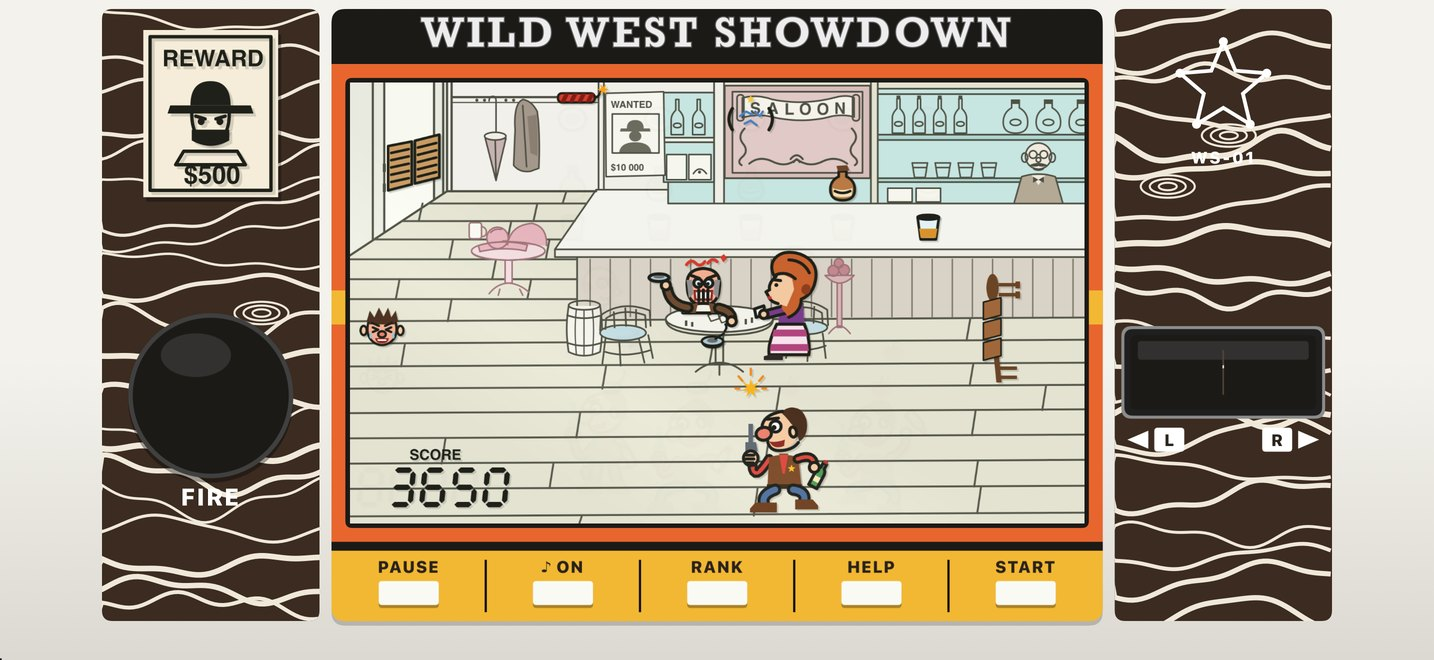
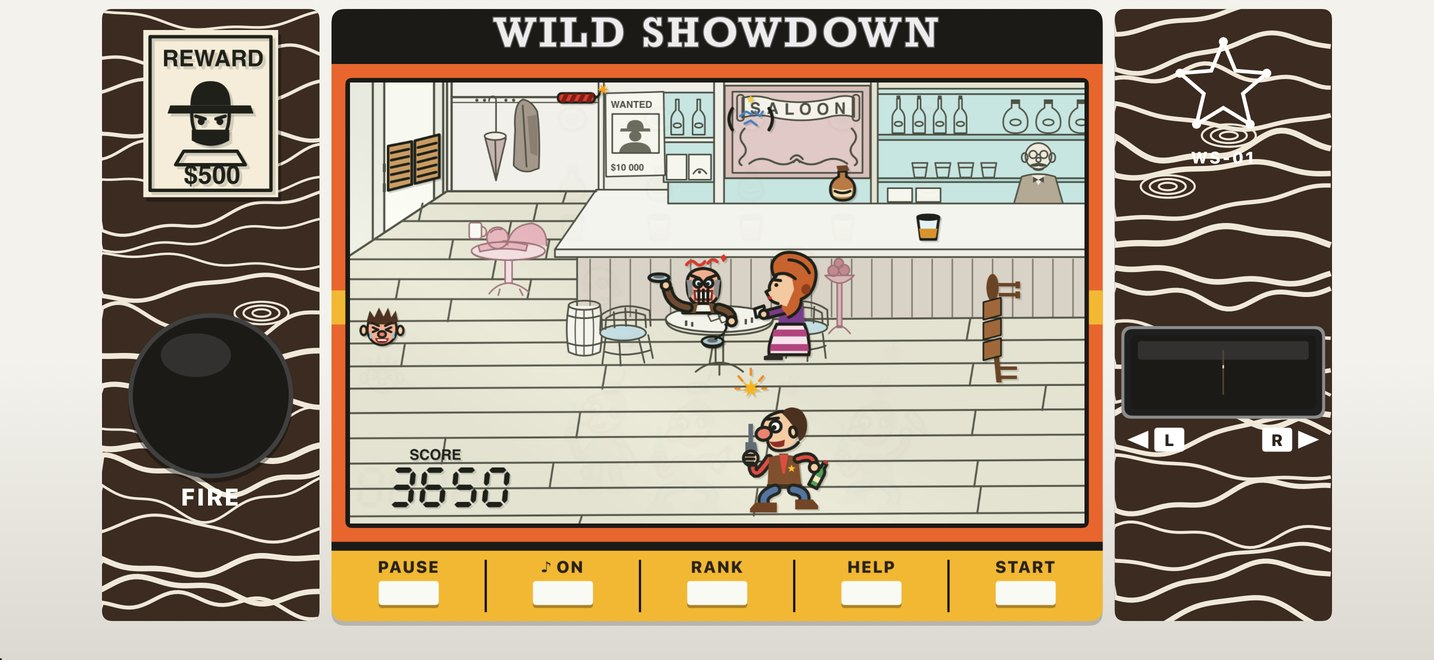
wildwest: rename English title to Wild Showdown
"Wild West Showdown" is taken on the App Store, so the English name is
now Wild Showdown. Screenshots retaken with the new title on the body.

Changed region(s): [[0.2762, 0.0, 0.7057, 0.0909]]

diff --git a/wildwest/en/index.html b/wildwest/en/index.html
@@ -3,9 +3,9 @@
 <head>
   <meta charset="utf-8">
   <meta name="viewport" content="width=device-width,initial-scale=1">
-  <title>Wild West Showdown｜Saloon shoot-out for iPhone</title>
-  <meta name="description" content="Wild West Showdown is a saloon shoot-out for iPhone in the style of 1980s LCD handheld games: smash the bartender's plates and bottles, dodge apples, douse dynamite with whiskey, then face the desperado. Free, no ads, no in-app purchases.">
-  <link rel="stylesheet" href="../style.css?v=20261013">
+  <title>Wild Showdown｜Saloon shoot-out for iPhone</title>
+  <meta name="description" content="Wild Showdown is a saloon shoot-out for iPhone in the style of 1980s LCD handheld games: smash the bartender's plates and bottles, dodge apples, douse dynamite with whiskey, then face the desperado. Free, no ads, no in-app purchases.">
+  <link rel="stylesheet" href="../style.css?v=20261013b">
   <link rel="stylesheet" href="../../assets/related-apps.css?v=20261008">
   <link rel="alternate" hreflang="zh-Hant" href="https://getesimmanager.com/wildwest/">
   <link rel="alternate" hreflang="en" href="https://getesimmanager.com/wildwest/en/">
@@ -13,8 +13,8 @@
 <body>
   <header>
     <a class="brand" href="./">
-      <img src="../../assets/wildwest-icon.png?v=20261013" alt="" width="40" height="40">
-      <span>Wild West Showdown</span>
+      <img src="../../assets/wildwest-icon.png?v=20261013b" alt="" width="40" height="40">
+      <span>Wild Showdown</span>
     </a>
     <nav aria-label="Site navigation">
       <a href="support.html">Support</a>
@@ -26,12 +26,12 @@
   <main>
     <section class="hero">
       <div>
-        <img class="app-icon" src="../../assets/wildwest-icon.png?v=20261013" alt="Wild West Showdown icon" width="104" height="104">
+        <img class="app-icon" src="../../assets/wildwest-icon.png?v=20261013b" alt="Wild Showdown icon" width="104" height="104">
         <span class="pill">iPhone app · Free, no ads, no in-app purchases</span>
         <h1>A tipsy sheriff. One saloon. Hold the line.</h1>
-        <p class="lead">Wild West Showdown is a saloon shoot-out in the style of 1980s LCD handheld games. Step left and right and fire straight up to smash the plates, bottles and glasses the bartender throws. Dodge the apples and ashtrays from grumpy customers, pour whiskey on the dynamite at your feet — and when the swinging doors creak, face the desperado.</p>
+        <p class="lead">Wild Showdown is a saloon shoot-out in the style of 1980s LCD handheld games. Step left and right and fire straight up to smash the plates, bottles and glasses the bartender throws. Dodge the apples and ashtrays from grumpy customers, pour whiskey on the dynamite at your feet — and when the swinging doors creak, face the desperado.</p>
         <div class="actions">
-          <a class="app-store-badge" href="https://apps.apple.com/app/id6822051900" target="_blank" rel="noopener noreferrer" aria-label="Download Wild West Showdown on the App Store">
+          <a class="app-store-badge" href="https://apps.apple.com/app/id6822051900" target="_blank" rel="noopener noreferrer" aria-label="Download Wild Showdown on the App Store">
             <svg viewBox="0 0 24 24" aria-hidden="true"><path d="M18.71 19.5c-.83 1.24-1.71 2.45-3.05 2.47-1.34.03-1.77-.79-3.29-.79-1.53 0-2 .77-3.27.82-1.31.05-2.3-1.32-3.14-2.53C4.25 17 2.94 12.45 4.7 9.39c.87-1.52 2.43-2.48 4.12-2.51 1.28-.02 2.5.87 3.29.87.78 0 2.26-1.07 3.81-.91.65.03 2.47.26 3.64 1.98-.09.06-2.17 1.28-2.15 3.81.03 3.02 2.65 4.03 2.68 4.04-.03.07-.42 1.44-1.38 2.83M15.97 6.37c.61-.75 1.04-1.8 0.92-2.87-.92.04-2.02.62-2.67 1.37-.58.66-1.09 1.74-.96 2.78 1.03.08 2.08-.54 2.71-1.28z"/></svg>
             <span><small>Download on the</small><strong>App Store</strong></span>
           </a>
@@ -41,32 +41,32 @@
       </div>
     </section>
 
-    <section class="gallery" aria-label="Wild West Showdown screenshots">
+    <section class="gallery" aria-label="Wild Showdown screenshots">
       <p class="eyebrow">Screenshots</p>
       <h2>That segment-by-segment LCD feel</h2>
       <div class="gallery-grid">
         <figure>
-          <img src="../../assets/wildwest-shoot.jpg" alt="The sheriff fires straight up and smashes a plate, a bottle and a glass in one column" width="1434" height="660" loading="lazy">
+          <img src="../../assets/wildwest-shoot.jpg?v=2" alt="The sheriff fires straight up and smashes a plate, a bottle and a glass in one column" width="1434" height="660" loading="lazy">
           <figcaption><strong>Triple shot</strong>Line up a plate, a bottle and a glass and smash all three with one shot for 150 points — the bartender throws in a bonus bottle.</figcaption>
         </figure>
         <figure>
-          <img src="../../assets/wildwest-dynamite.jpg" alt="Dynamite flies in from the door while a customer stands up to throw an ashtray" width="1434" height="660" loading="lazy">
+          <img src="../../assets/wildwest-dynamite.jpg?v=2" alt="Dynamite flies in from the door while a customer stands up to throw an ashtray" width="1434" height="660" loading="lazy">
           <figcaption><strong>Watch the dynamite</strong>From the 2nd pattern, dynamite flies across the saloon. Shoot it and — BOOM.</figcaption>
         </figure>
         <figure>
-          <img src="../../assets/wildwest-pour.jpg" alt="The sheriff pours whiskey on the dynamite fuse at the far right" width="1434" height="660" loading="lazy">
+          <img src="../../assets/wildwest-pour.jpg?v=2" alt="The sheriff pours whiskey on the dynamite fuse at the far right" width="1434" height="660" loading="lazy">
           <figcaption><strong>Douse the fuse</strong>In the 3rd pattern the bartender drops dynamite at the far right. Get there and press RIGHT once more to pour whiskey on the fuse.</figcaption>
         </figure>
         <figure>
-          <img src="../../assets/wildwest-duel.jpg" alt="The desperado kneels and aims while the sheriff steps out from behind an overturned table; the customers hide" width="1434" height="660" loading="lazy">
+          <img src="../../assets/wildwest-duel.jpg?v=2" alt="The desperado kneels and aims while the sheriff steps out from behind an overturned table; the customers hide" width="1434" height="660" loading="lazy">
           <figcaption><strong>The showdown</strong>After 20 hits the desperado walks in and everyone ducks. Wait for his shooting pose — draw too early and he fires back.</figcaption>
         </figure>
         <figure>
-          <img src="../../assets/wildwest-victory.jpg" alt="The desperado flails after being hit while the sheriff celebrates with a bottle" width="1434" height="660" loading="lazy">
+          <img src="../../assets/wildwest-victory.jpg?v=2" alt="The desperado flails after being hit while the sheriff celebrates with a bottle" width="1434" height="660" loading="lazy">
           <figcaption><strong>You win!</strong>Hit him three times and he flails; the sheriff celebrates with a swig and moves on to the next pattern.</figcaption>
         </figure>
         <figure>
-          <img src="../../assets/wildwest-title.jpg" alt="The handheld-style body: FIRE button on the left, L/R rocker on the right, key strip below" width="1434" height="660" loading="lazy">
+          <img src="../../assets/wildwest-title.jpg?v=2" alt="The handheld-style body: FIRE button on the left, L/R rocker on the right, key strip below" width="1434" height="660" loading="lazy">
           <figcaption><strong>Handheld body</strong>FIRE on the left, the L/R rocker on the right, and PAUSE / ♪ / RANK / HELP / START below — just like holding a handheld.</figcaption>
         </figure>
       </div>
@@ -181,7 +181,7 @@
   </main>
 
   <footer>
-    <strong>Wild West Showdown</strong>
+    <strong>Wild Showdown</strong>
     <span> · <a href="mailto:mkjohnny@gmail.com">mkjohnny@gmail.com</a></span>
   </footer>
 </body>

diff --git a/wildwest/index.html b/wildwest/index.html
@@ -3,9 +3,9 @@
 <head>
   <meta charset="utf-8">
   <meta name="viewport" content="width=device-width,initial-scale=1">
-  <title>荒野大對決｜Wild West Showdown</title>
-  <meta name="description" content="荒野大對決（Wild West Showdown）是 iPhone 上致敬 80 年代液晶掌機的西部酒館射擊遊戲：打碎酒保丟來的盤子酒瓶、閃過客人的蘋果、用威士忌澆熄炸藥，最後跟亡命之徒決鬥。免費、無廣告、無內購。">
-  <link rel="stylesheet" href="style.css?v=20261013">
+  <title>荒野大對決｜Wild Showdown</title>
+  <meta name="description" content="荒野大對決（Wild Showdown）是 iPhone 上致敬 80 年代液晶掌機的西部酒館射擊遊戲：打碎酒保丟來的盤子酒瓶、閃過客人的蘋果、用威士忌澆熄炸藥，最後跟亡命之徒決鬥。免費、無廣告、無內購。">
+  <link rel="stylesheet" href="style.css?v=20261013b">
   <link rel="stylesheet" href="../assets/related-apps.css?v=20261008">
   <link rel="alternate" hreflang="zh-Hant" href="https://getesimmanager.com/wildwest/">
   <link rel="alternate" hreflang="en" href="https://getesimmanager.com/wildwest/en/">
@@ -13,7 +13,7 @@
 <body>
   <header>
     <a class="brand" href="./">
-      <img src="../assets/wildwest-icon.png?v=20261013" alt="" width="40" height="40">
+      <img src="../assets/wildwest-icon.png?v=20261013b" alt="" width="40" height="40">
       <span>荒野大對決</span>
     </a>
     <nav aria-label="網站導覽">
@@ -26,7 +26,7 @@
   <main>
     <section class="hero">
       <div>
-        <img class="app-icon" src="../assets/wildwest-icon.png?v=20261013" alt="荒野大對決圖示" width="104" height="104">
+        <img class="app-icon" src="../assets/wildwest-icon.png?v=20261013b" alt="荒野大對決圖示" width="104" height="104">
         <span class="pill">iPhone App · 免費、無廣告、無內購</span>
         <h1>醉醺醺的警長，守住這間酒館。</h1>
         <p class="lead">荒野大對決是一款致敬 80 年代液晶掌機的西部酒館射擊遊戲。左右移動、往上開槍，打碎酒保丟出的盤子、酒瓶和酒杯；閃過客人砸來的蘋果與煙灰缸；還得把威士忌倒在腳邊的炸藥上——最後，跟推門進來的亡命之徒一決勝負。</p>
@@ -46,27 +46,27 @@
       <h2>液晶段位一格一格亮起來的手感</h2>
       <div class="gallery-grid">
         <figure>
-          <img src="../assets/wildwest-shoot.jpg" alt="警長往上開槍，同一欄的盤子、酒瓶、酒杯一起被打碎" width="1434" height="660" loading="lazy">
+          <img src="../assets/wildwest-shoot.jpg?v=2" alt="警長往上開槍，同一欄的盤子、酒瓶、酒杯一起被打碎" width="1434" height="660" loading="lazy">
           <figcaption><strong>一槍三連中</strong>盤子、酒瓶、酒杯排成一直線時，一槍打碎三個得 150 分，酒保還會追加一瓶獎勵酒。</figcaption>
         </figure>
         <figure>
-          <img src="../assets/wildwest-dynamite.jpg" alt="炸藥從左上門口飛進酒館，大叔站起來準備丟煙灰缸" width="1434" height="660" loading="lazy">
+          <img src="../assets/wildwest-dynamite.jpg?v=2" alt="炸藥從左上門口飛進酒館，大叔站起來準備丟煙灰缸" width="1434" height="660" loading="lazy">
           <figcaption><strong>小心炸藥</strong>第 2 種模式起，炸藥會從門口飛過酒館——打到它就是一聲 BOOM。</figcaption>
         </figure>
         <figure>
-          <img src="../assets/wildwest-pour.jpg" alt="警長在最右邊把威士忌倒在腳邊炸藥的引信上" width="1434" height="660" loading="lazy">
+          <img src="../assets/wildwest-pour.jpg?v=2" alt="警長在最右邊把威士忌倒在腳邊炸藥的引信上" width="1434" height="660" loading="lazy">
           <figcaption><strong>倒酒熄引信</strong>第 3 種模式酒保會把炸藥丟到最右邊腳下：走過去再按一下「右」，用威士忌把引信澆熄。</figcaption>
         </figure>
         <figure>
-          <img src="../assets/wildwest-duel.jpg" alt="亡命之徒單膝跪地瞄準，警長從翻倒的桌子後面跨出來開槍，客人躲在木桶與椅子後面" width="1434" height="660" loading="lazy">
+          <img src="../assets/wildwest-duel.jpg?v=2" alt="亡命之徒單膝跪地瞄準，警長從翻倒的桌子後面跨出來開槍，客人躲在木桶與椅子後面" width="1434" height="660" loading="lazy">
           <figcaption><strong>酒館決鬥</strong>打碎 20 個之後亡命之徒推門進來，客人全躲起來。等他擺好開槍姿勢再拔槍，太早出手會被反擊。</figcaption>
         </figure>
         <figure>
-          <img src="../assets/wildwest-victory.jpg" alt="亡命之徒中彈手腳亂揮，警長拿起酒瓶慶祝" width="1434" height="660" loading="lazy">
+          <img src="../assets/wildwest-victory.jpg?v=2" alt="亡命之徒中彈手腳亂揮，警長拿起酒瓶慶祝" width="1434" height="660" loading="lazy">
           <figcaption><strong>打贏了！</strong>擊中亡命之徒 3 次，他手腳亂揮，警長拿起酒瓶慶祝，進入下一個模式。</figcaption>
         </figure>
         <figure>
-          <img src="../assets/wildwest-title.jpg" alt="液晶掌機風格的機身：左邊 FIRE 鈕、右邊左右搖桿、下方按鍵條" width="1434" height="660" loading="lazy">
+          <img src="../assets/wildwest-title.jpg?v=2" alt="液晶掌機風格的機身：左邊 FIRE 鈕、右邊左右搖桿、下方按鍵條" width="1434" height="660" loading="lazy">
           <figcaption><strong>掌機機身</strong>左手 FIRE、右手左右搖桿，下方 PAUSE／♪／RANK／HELP／START，跟當年拿掌機的手感一樣。</figcaption>
         </figure>
       </div>
@@ -189,7 +189,7 @@
   </main>
 
   <footer>
-    <strong>荒野大對決 · Wild West Showdown</strong>
+    <strong>荒野大對決 · Wild Showdown</strong>
     <span> · <a href="mailto:mkjohnny@gmail.com">mkjohnny@gmail.com</a></span>
   </footer>
 </body>

diff --git a/wildwest/en/privacy.html b/wildwest/en/privacy.html
@@ -3,18 +3,18 @@
 <head>
   <meta charset="utf-8">
   <meta name="viewport" content="width=device-width,initial-scale=1">
-  <title>Privacy Policy｜Wild West Showdown</title>
-  <link rel="stylesheet" href="../style.css?v=20261013">
+  <title>Privacy Policy｜Wild Showdown</title>
+  <link rel="stylesheet" href="../style.css?v=20261013b">
 </head>
 <body>
   <header>
-    <a class="brand" href="./"><img src="../../assets/wildwest-icon.png?v=20261013" alt="" width="40" height="40"><span>Wild West Showdown</span></a>
+    <a class="brand" href="./"><img src="../../assets/wildwest-icon.png?v=20261013b" alt="" width="40" height="40"><span>Wild Showdown</span></a>
     <nav aria-label="Site navigation"><a href="support.html">Support</a><a href="privacy.html">Privacy</a><a href="../privacy.html">繁體中文</a></nav>
   </header>
   <main><article>
     <p class="eyebrow">Privacy Policy · October 13, 2026</p>
-    <h1>How Wild West Showdown handles your data</h1>
-    <p>This policy covers the Wild West Showdown iPhone app and this website.</p>
+    <h1>How Wild Showdown handles your data</h1>
+    <p>This policy covers the Wild Showdown iPhone app and this website.</p>
 
     <h2>1. Data on your device</h2>
     <p>Your high score, best level and sound setting are stored on your device. They are never sent to our servers (we don't run any). Deleting the app removes them permanently.</p>
@@ -37,6 +37,6 @@
     <h2>7. Contact and changes</h2>
     <p>For privacy questions, email <a href="mailto:mkjohnny@gmail.com?subject=Wild%20West%20Showdown%20Privacy">mkjohnny@gmail.com</a>. If anything changes, we will update the date above and this page.</p>
   </article></main>
-  <footer>Wild West Showdown</footer>
+  <footer>Wild Showdown</footer>
 </body>
 </html>

diff --git a/wildwest/privacy.html b/wildwest/privacy.html
@@ -4,17 +4,17 @@
   <meta charset="utf-8">
   <meta name="viewport" content="width=device-width,initial-scale=1">
   <title>隱私政策｜荒野大對決</title>
-  <link rel="stylesheet" href="style.css?v=20261013">
+  <link rel="stylesheet" href="style.css?v=20261013b">
 </head>
 <body>
   <header>
-    <a class="brand" href="./"><img src="../assets/wildwest-icon.png?v=20261013" alt="" width="40" height="40"><span>荒野大對決</span></a>
+    <a class="brand" href="./"><img src="../assets/wildwest-icon.png?v=20261013b" alt="" width="40" height="40"><span>荒野大對決</span></a>
     <nav aria-label="網站導覽"><a href="support.html">使用支援</a><a href="privacy.html">隱私政策</a><a href="en/privacy.html">English</a></nav>
   </header>
   <main><article>
     <p class="eyebrow">隱私政策 · 2026 年 10 月 13 日</p>
     <h1>荒野大對決如何處理遊戲資料</h1>
-    <p>本政策適用於荒野大對決（Wild West Showdown）iPhone App 與本網站。</p>
+    <p>本政策適用於荒野大對決（Wild Showdown）iPhone App 與本網站。</p>
 
     <h2>1. App 本機資料</h2>
     <p>最高分、最高關卡與音效開關保存在裝置本機，不會傳送到我們的伺服器（我們也沒有伺服器）。移除 App 會一併清除這些紀錄，且無法復原。</p>
@@ -37,6 +37,6 @@
     <h2>7. 聯絡與更新</h2>
     <p>隱私問題請聯絡 <a href="mailto:mkjohnny@gmail.com?subject=荒野大對決隱私問題">mkjohnny@gmail.com</a>。資料處理方式變更時，會更新上方日期與本頁內容。</p>
   </article></main>
-  <footer>荒野大對決 · Wild West Showdown</footer>
+  <footer>荒野大對決 · Wild Showdown</footer>
 </body>
 </html>

diff --git a/wildwest/en/support.html b/wildwest/en/support.html
@@ -3,12 +3,12 @@
 <head>
   <meta charset="utf-8">
   <meta name="viewport" content="width=device-width,initial-scale=1">
-  <title>Support｜Wild West Showdown</title>
-  <link rel="stylesheet" href="../style.css?v=20261013">
+  <title>Support｜Wild Showdown</title>
+  <link rel="stylesheet" href="../style.css?v=20261013b">
 </head>
 <body>
   <header>
-    <a class="brand" href="./"><img src="../../assets/wildwest-icon.png?v=20261013" alt="" width="40" height="40"><span>Wild West Showdown</span></a>
+    <a class="brand" href="./"><img src="../../assets/wildwest-icon.png?v=20261013b" alt="" width="40" height="40"><span>Wild Showdown</span></a>
     <nav aria-label="Site navigation"><a href="support.html">Support</a><a href="privacy.html">Privacy</a><a href="../support.html">繁體中文</a></nav>
   </header>
   <main><article>
@@ -39,6 +39,6 @@
     <h2>Report a problem or suggestion</h2>
     <p>Email <a href="mailto:mkjohnny@gmail.com?subject=Wild%20West%20Showdown%20Support">mkjohnny@gmail.com</a> with your iPhone model, iOS version and the steps that led to the issue. Never send passwords or payment information — we will never ask for them.</p>
   </article></main>
-  <footer>Last updated: October 13, 2026 · Wild West Showdown</footer>
+  <footer>Last updated: October 13, 2026 · Wild Showdown</footer>
 </body>
 </html>

diff --git a/wildwest/support.html b/wildwest/support.html
@@ -4,11 +4,11 @@
   <meta charset="utf-8">
   <meta name="viewport" content="width=device-width,initial-scale=1">
   <title>使用支援｜荒野大對決</title>
-  <link rel="stylesheet" href="style.css?v=20261013">
+  <link rel="stylesheet" href="style.css?v=20261013b">
 </head>
 <body>
   <header>
-    <a class="brand" href="./"><img src="../assets/wildwest-icon.png?v=20261013" alt="" width="40" height="40"><span>荒野大對決</span></a>
+    <a class="brand" href="./"><img src="../assets/wildwest-icon.png?v=20261013b" alt="" width="40" height="40"><span>荒野大對決</span></a>
     <nav aria-label="網站導覽"><a href="support.html">使用支援</a><a href="privacy.html">隱私政策</a><a href="en/support.html">English</a></nav>
   </header>
   <main><article>
@@ -39,6 +39,6 @@
     <h2>回報問題或建議</h2>
     <p>歡迎來信 <a href="mailto:mkjohnny@gmail.com?subject=荒野大對決使用支援">mkjohnny@gmail.com</a>。請附上 iPhone 型號、iOS 版本與發生當下的操作步驟。請勿寄送任何密碼或付款資訊，我們也不會索取這些資料。</p>
   </article></main>
-  <footer>更新日期：2026 年 10 月 13 日 · 荒野大對決 · Wild West Showdown</footer>
+  <footer>更新日期：2026 年 10 月 13 日 · 荒野大對決 · Wild Showdown</footer>
 </body>
 </html>

diff --git a/wildwest/style.css b/wildwest/style.css
@@ -1,4 +1,4 @@
-/* 荒野大對決 Wild West Showdown 官網。配色取自 App 機身：乳白機殼、深木紋、橘框、黃按鍵條。 */
+/* 荒野大對決 Wild Showdown 官網。配色取自 App 機身：乳白機殼、深木紋、橘框、黃按鍵條。 */
 :root {
   color-scheme: light dark;
   --bg: #f6efe3;
